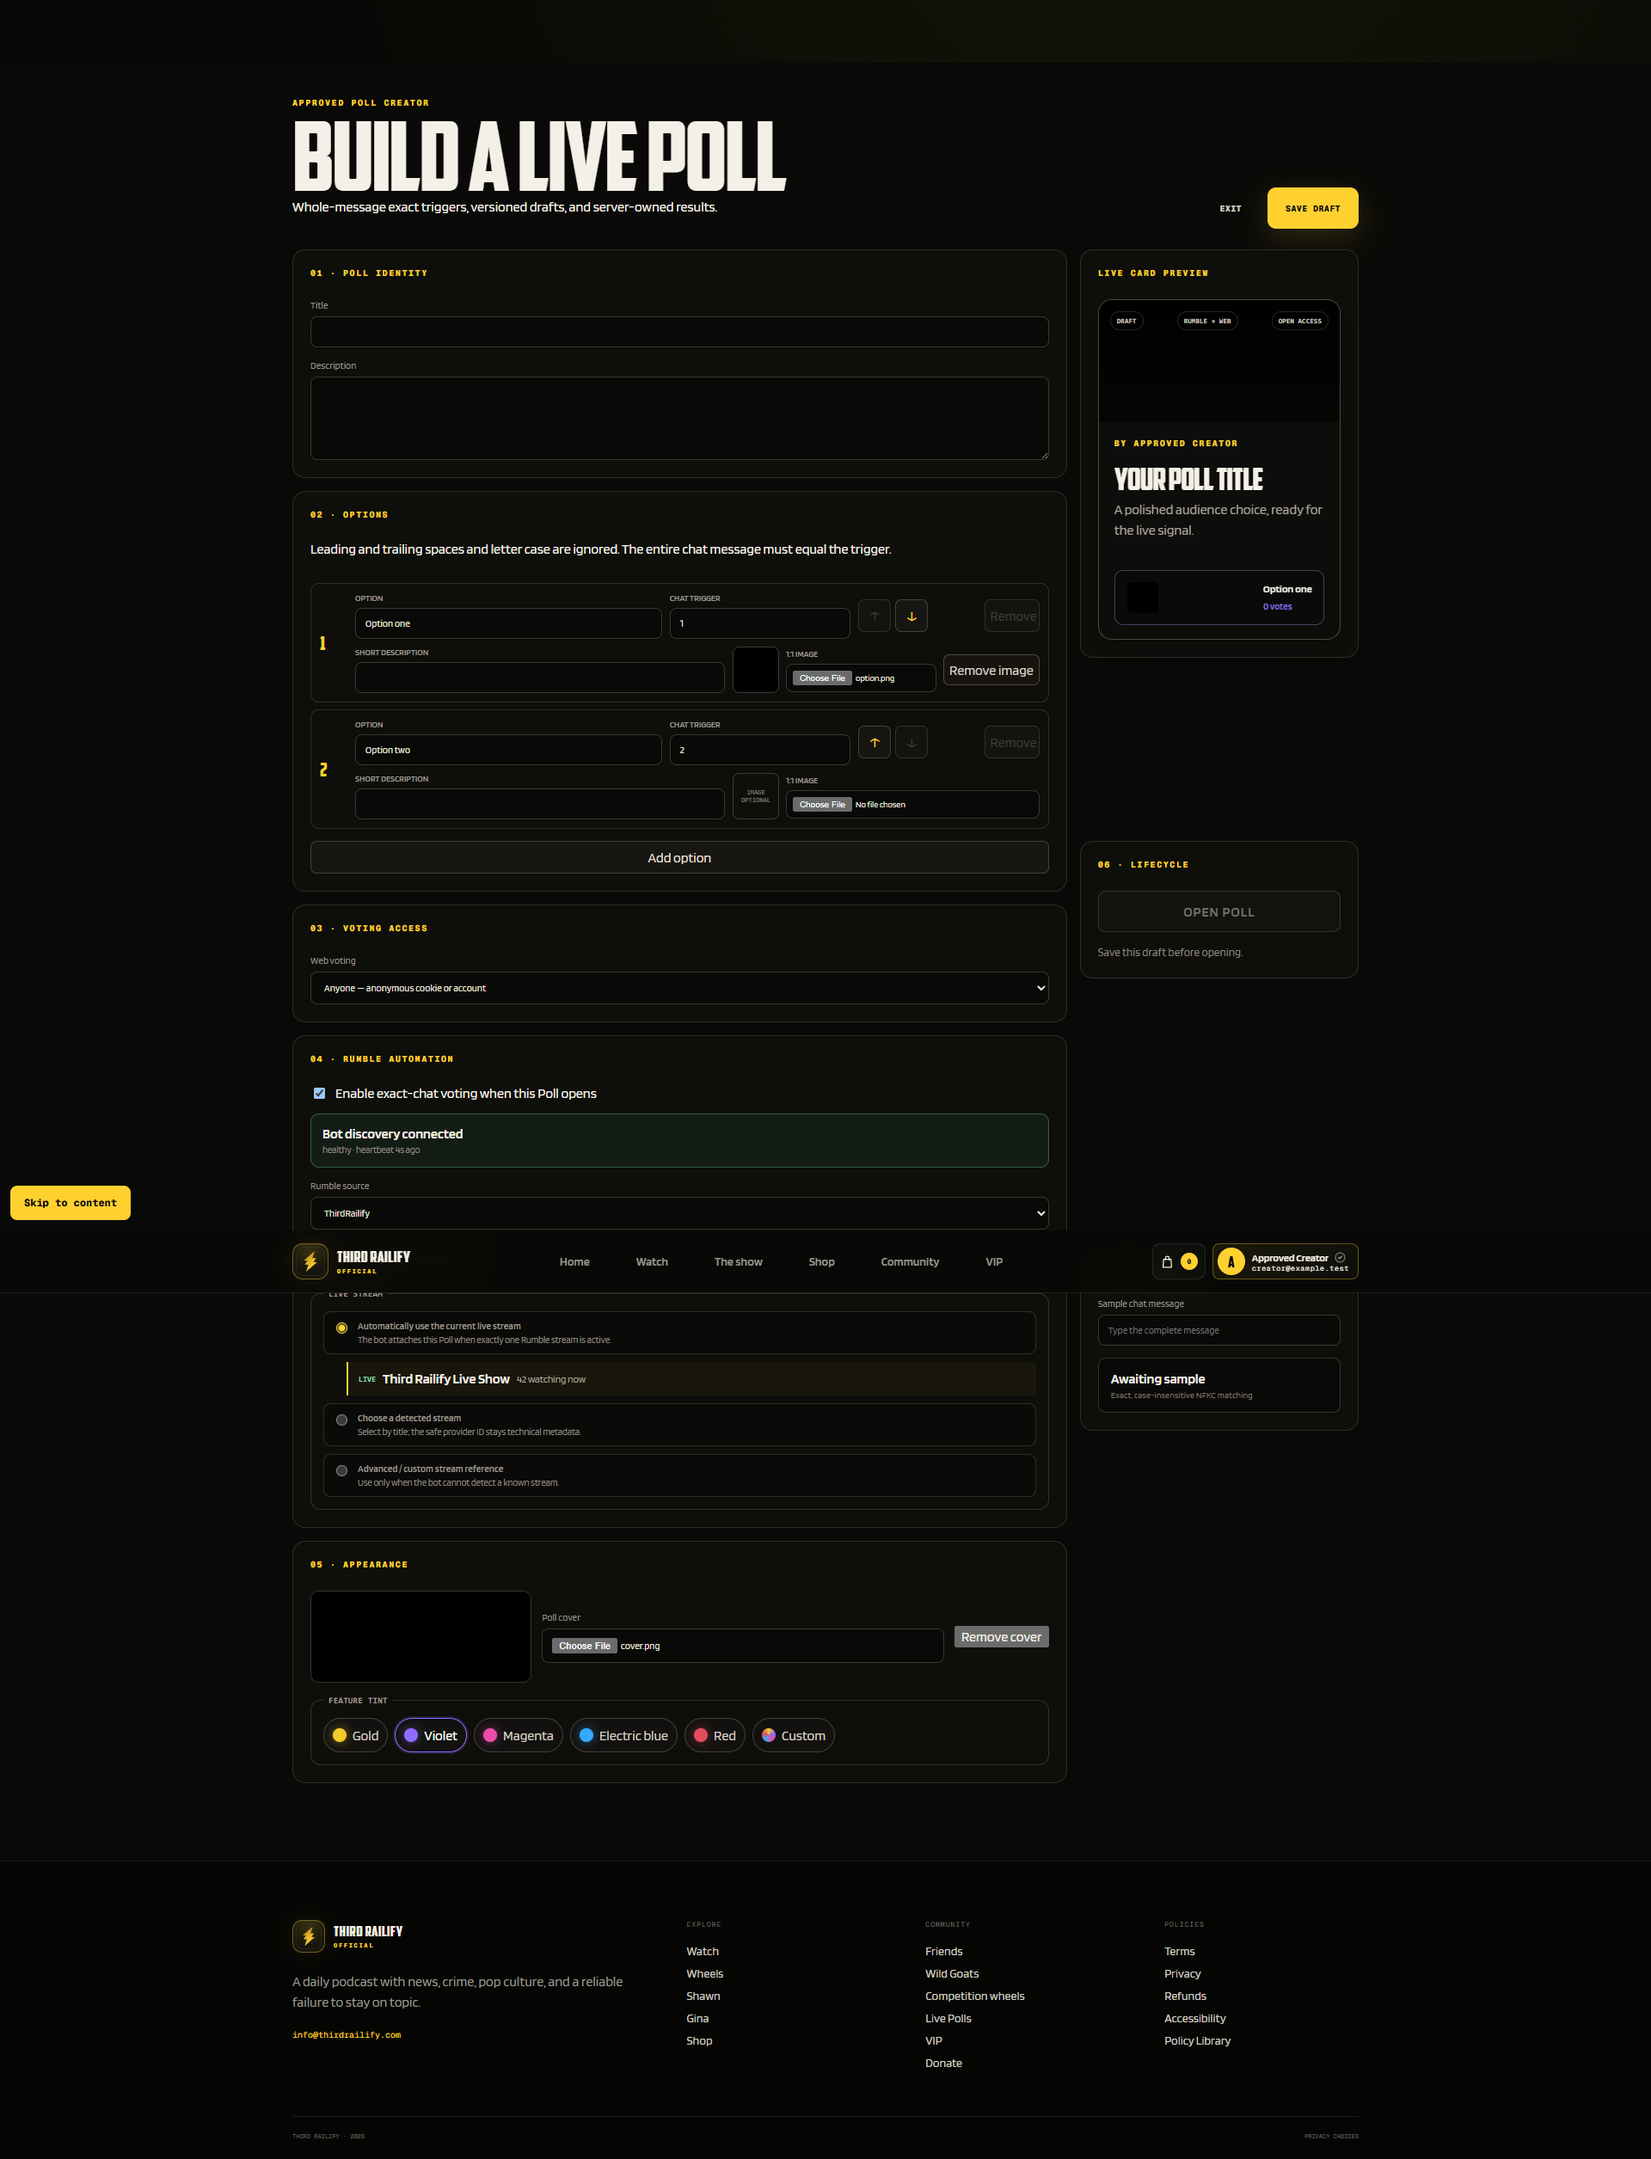
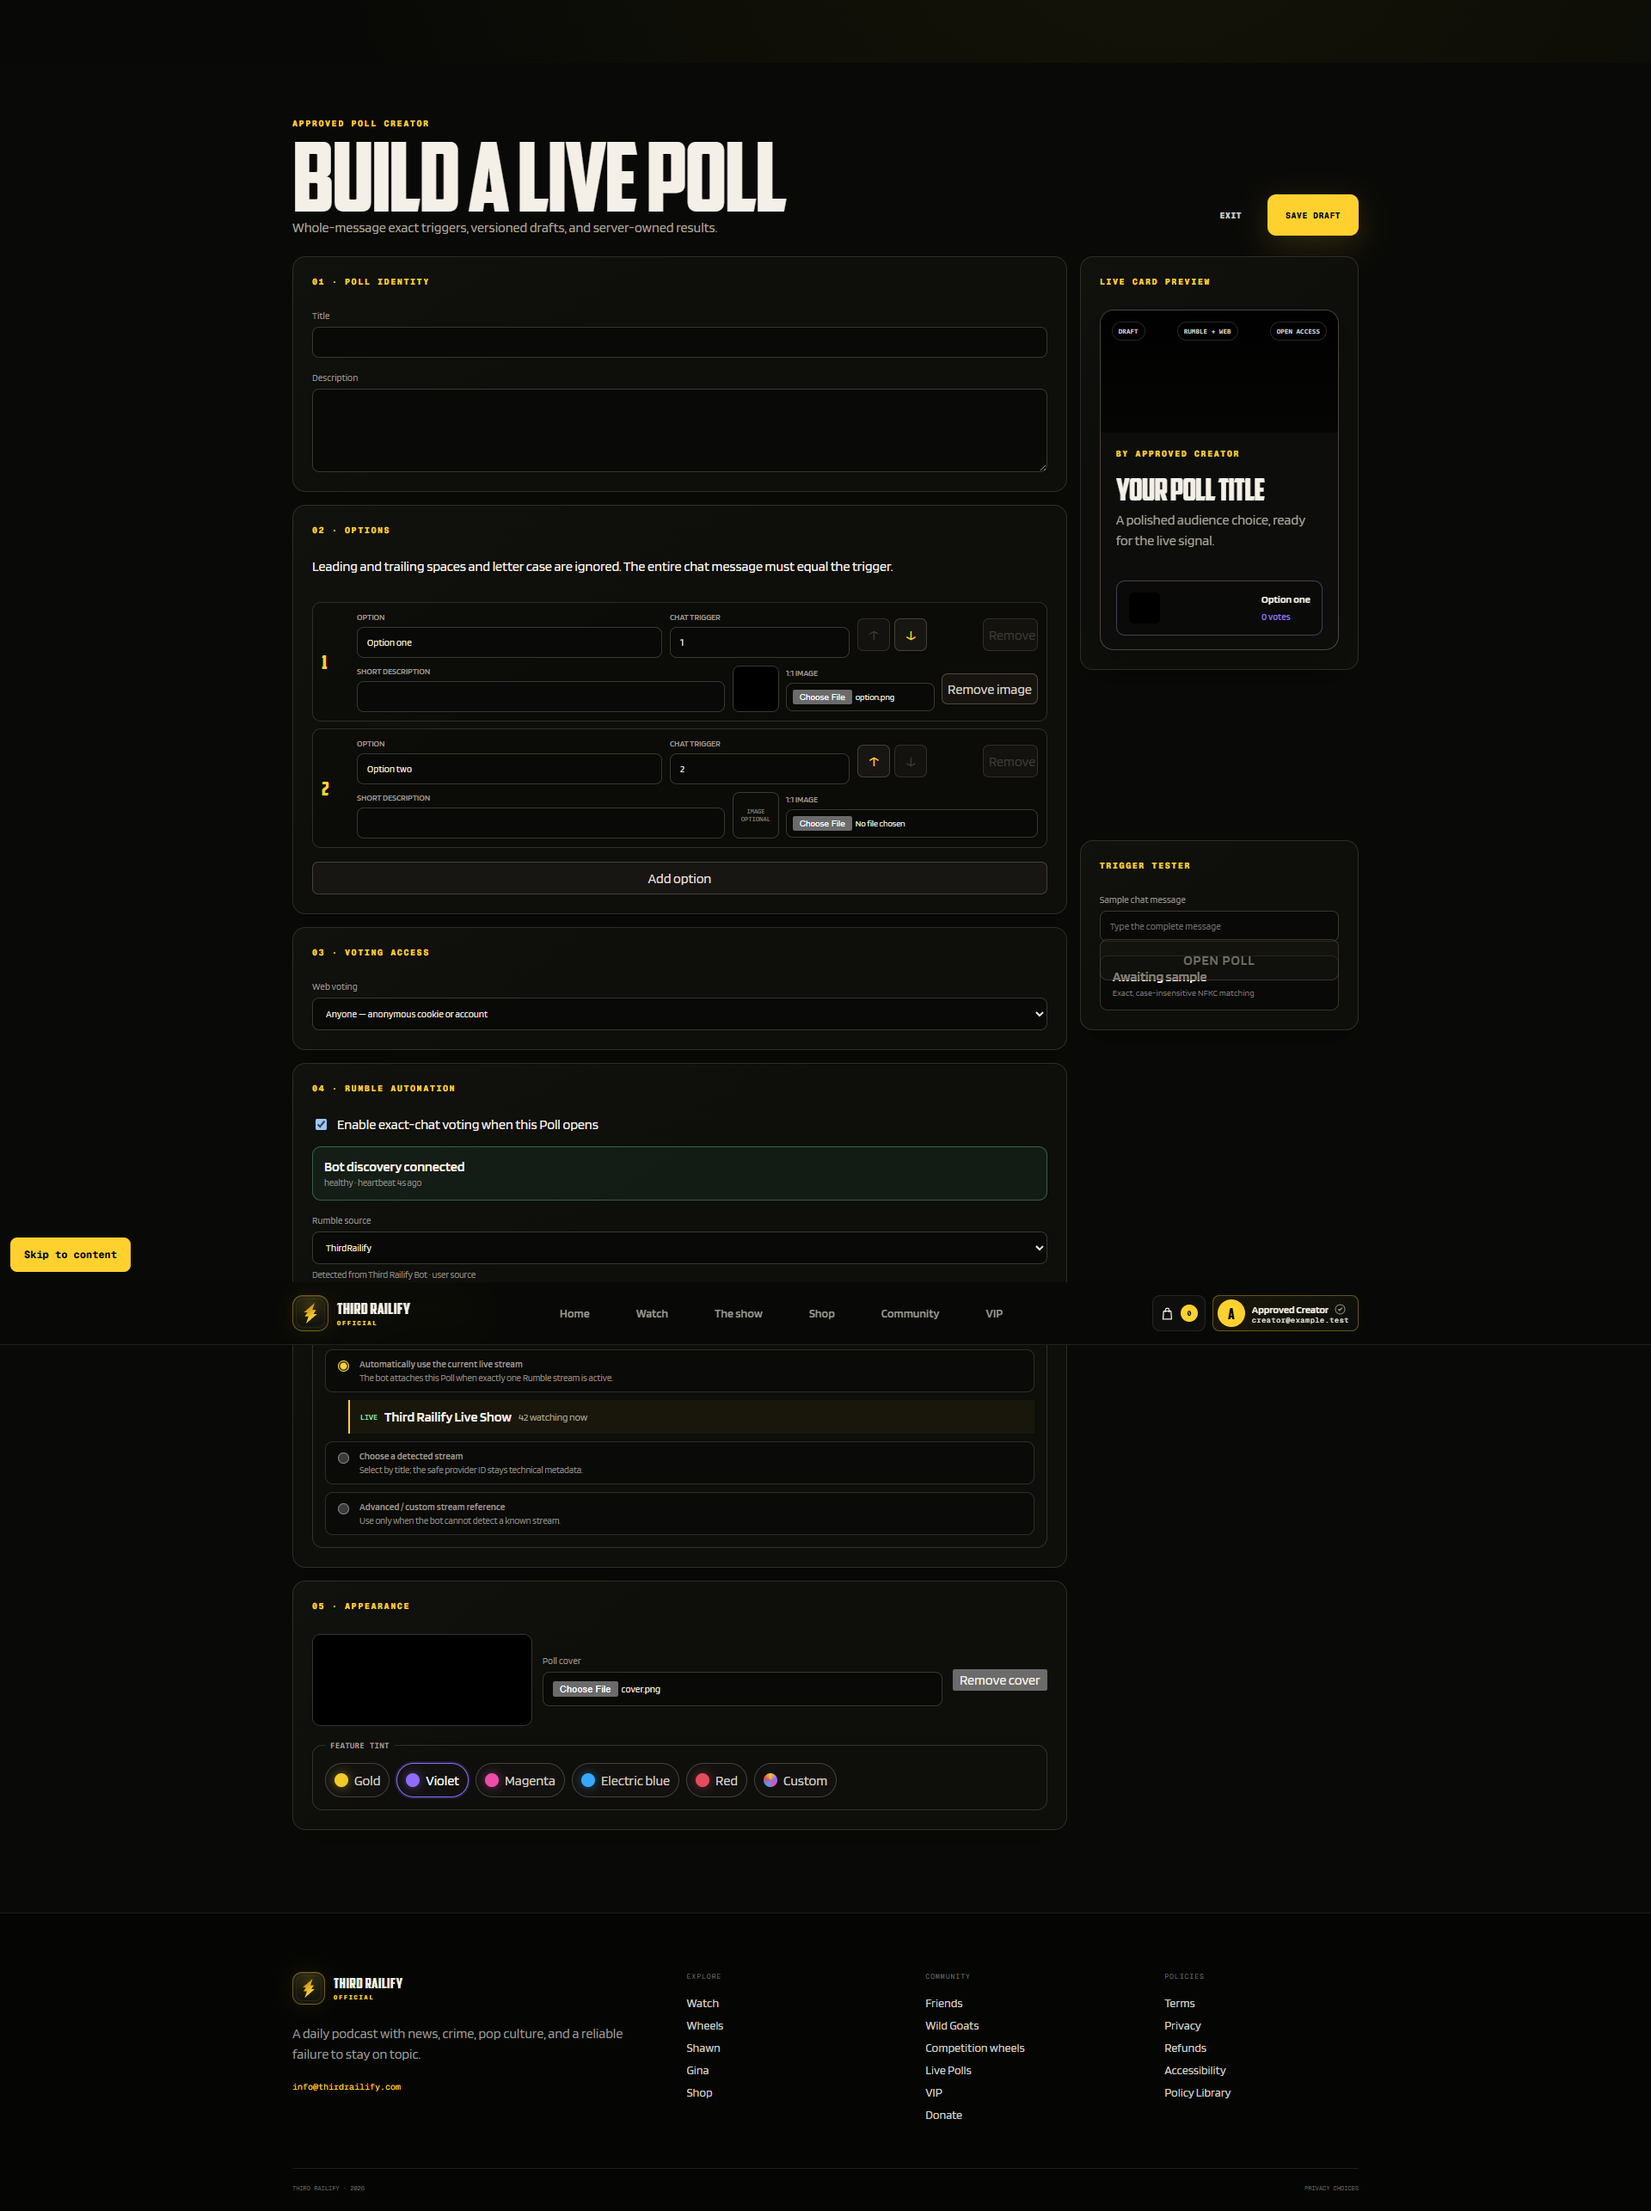
fix(polls): align and polish creator layout

diff --git a/src/styles/polls.css b/src/styles/polls.css
@@ -431,7 +431,7 @@
   border-radius: 10px;
 }
 .poll-editor {
-  padding: 40px 0 90px;
+  padding: clamp(34px, 5vw, 64px) 0 96px;
 }
 .poll-editor > header {
   display: flex;
@@ -439,18 +439,56 @@
   gap: 24px;
   align-items: end;
 }
+.poll-editor > header > div:first-child {
+  max-width: 920px;
+}
 .poll-editor h1 {
   margin: 0.2rem 0;
   font-size: clamp(3rem, 7vw, 7rem);
   line-height: 0.82;
+  text-wrap: balance;
+}
+.poll-editor > header > div:first-child > p:last-child {
+  max-width: 68ch;
+  margin-bottom: 0;
+  color: #aaa398;
 }
 .poll-editor > header > div:last-child {
   display: flex;
+  flex-wrap: wrap;
+  justify-content: flex-end;
   gap: 9px;
+}
+.poll-editor > :is(.poll-error, .poll-notice) {
+  box-sizing: border-box;
+  display: flex;
+  align-items: center;
+  gap: 11px;
+  width: var(--container);
+  min-height: 48px;
+  margin: 20px auto 0;
+  box-shadow: 0 12px 34px rgba(0, 0, 0, 0.18);
+}
+.poll-editor > :is(.poll-error, .poll-notice)::before {
+  display: grid;
+  flex: 0 0 24px;
+  place-items: center;
+  width: 24px;
+  aspect-ratio: 1;
+  border: 1px solid currentColor;
+  border-radius: 50%;
+  font: 900 0.72rem/1 var(--font-mono, monospace);
+}
+.poll-editor > .poll-error::before {
+  content: "!";
+}
+.poll-editor > .poll-notice::before {
+  content: "✓";
 }
 .poll-editor__layout {
   display: grid;
   grid-template-columns: minmax(0, 1fr) minmax(290px, 0.36fr);
+  align-items: start;
   gap: 15px;
   margin-top: 24px;
 }
@@ -458,13 +496,19 @@
   display: grid;
   gap: 15px;
 }
+.poll-editor__layout > aside {
+  display: grid;
+  align-content: start;
+  gap: 15px;
+}
 .poll-editor-panel {
   display: grid;
-  gap: 14px;
-  padding: 20px;
+  gap: 16px;
+  padding: 22px;
   border: 1px solid #302d28;
   border-radius: 15px;
-  background: #0e0e0b;
+  background: linear-gradient(145deg, rgba(255, 255, 255, 0.012), transparent 42%), #0e0e0b;
+  box-shadow: 0 16px 42px rgba(0, 0, 0, 0.12);
 }
 .poll-editor-panel label:not(.poll-toggle) {
   display: grid;
@@ -479,6 +523,15 @@
   border-radius: 8px;
   background: #090907;
   color: #eee9df;
+  transition: border-color 0.18s ease, box-shadow 0.18s ease, background 0.18s ease;
+}
+.poll-editor-panel :is(input, textarea, select):hover:not(:disabled) {
+  border-color: #514a3f;
+}
+.poll-editor-panel :is(input, textarea, select):focus {
+  border-color: color-mix(in srgb, var(--poll-accent, var(--gold)) 58%, #514a3f);
+  background: #0b0b08;
+  box-shadow: 0 0 0 3px color-mix(in srgb, var(--poll-accent, var(--gold)) 10%, transparent);
 }
 .poll-editor-options {
   display: grid;
@@ -492,6 +545,7 @@
   padding: 10px;
   border: 1px solid #302d28;
   border-radius: 10px;
+  background: rgba(5, 5, 4, 0.34);
 }
 .poll-editor-option__order {
   display: flex;
@@ -607,6 +661,20 @@
   .poll-editor-options article {
     grid-template-columns: auto 1fr;
   }
+  .poll-editor {
+    padding-top: 28px;
+  }
+  .poll-editor > :is(.poll-error, .poll-notice) {
+    margin-top: 14px;
+  }
+  .poll-editor__layout {
+    margin-top: 18px;
+  }
+  .poll-editor-panel {
+    gap: 14px;
+    padding: 16px;
+    border-radius: 12px;
+  }
   .poll-editor-options article label {
     grid-column: 2;
   }
@@ -621,7 +689,12 @@
     flex: 1;
   }
   .poll-editor > header > div:last-child {
-    flex-wrap: wrap;
+    width: 100%;
+    justify-content: stretch;
+  }
+  .poll-editor > header > div:last-child > * {
+    flex: 1 1 140px;
+    text-align: center;
   }
 }
 @media (prefers-reduced-motion: reduce) {

diff --git a/BUMP_NOTES.md b/BUMP_NOTES.md
@@ -692,3 +692,9 @@ When a listed provider is live, both homepage social rails now open that confirm
 - Share now uses the Web Share API when available, falls back to clipboard copy, and always produces visible success or copyable fallback feedback. Full unit, legacy browser, V1.6 browser, desktop/mobile visual, and stable deployed acceptance passed; the genuine stable gallery produced no API writes.
 - Refined Public release: `759fd1af` (`https://759fd1af.thirdrailify.pages.dev`), with the matching bundle live at `https://thirdrailify.pages.dev`. No Admin deploy, schema, migration, D1/R2, official-spin authority, provider, Wix, DNS/domain, custom-domain, commit, or push change was made.
 - Final interaction follow-up makes the live centre medallion a native accessible spin button wired to the exact same practice/official handler and disabled-state authority as the existing Spin Wheel control; non-interactive editor and Appearance previews remain decorative. Released Public as `afec35d2` (`https://afec35d2.thirdrailify.pages.dev`), and stable deployed acceptance completed a centre-triggered local demo result with zero API writes or document reloads.
+
+## 2026-09-01 - Polls V1.1 creator alignment repair
+
+- Corrected the Poll creator's top-level error and success banners so they retain the shared centered container instead of replacing its automatic margins with viewport-edge spacing.
+- Polished the existing editor without redesigning it: balanced header/action geometry, consistent panel rhythm, clearer input focus/hover states, responsive full-width mobile actions, and aligned main/preview columns.
+- Added production-build browser coverage that forces the schema-error state, compares both banner edges to the editor layout, captures the corrected desktop state, and retains the 1920/1440/768/390 Poll matrix with console and overflow checks.
